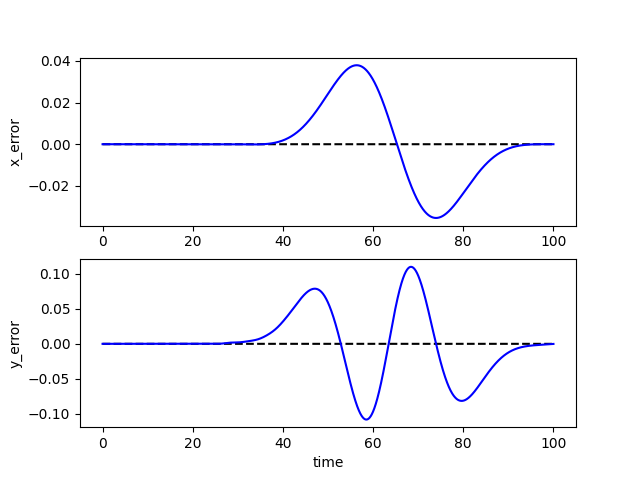
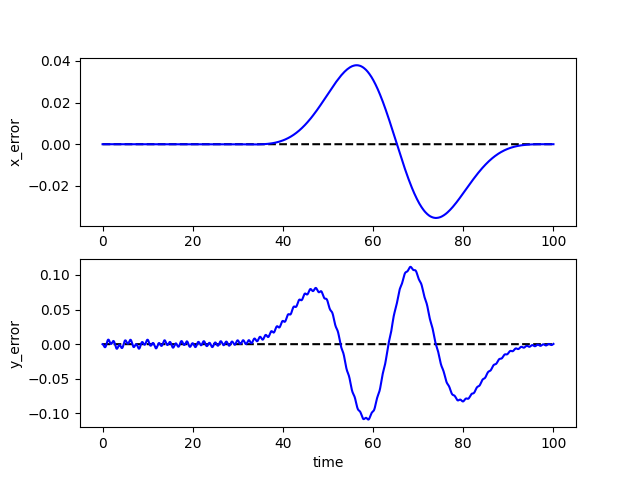
Update

diff --git a/sim_quadcopter_with_payload_fdbklin_lift_and_tracking.py b/sim_quadcopter_with_payload_fdbklin_lift_and_tracking.py
@@ -602,7 +602,7 @@ x0 = x_ref[0]; y0 = y_ref[0]; z0 = z_ref[0]
 vx0 = 0; vy0 = 0; vz0 = 0
 phi0 = np.deg2rad(0); theta0 = np.deg2rad(0); psi0 = np.deg2rad(0)
 phidot0 = 0; thetadot0 = 0; psidot0 = 0
-theta_l0 = 0; phi_l0 = 0
+theta_l0 = np.deg2rad(10); phi_l0 = 0
 thetadot_l0 = 0; phidot_l0 = 0
 
 # t = np.linspace(0, 1, 101)
